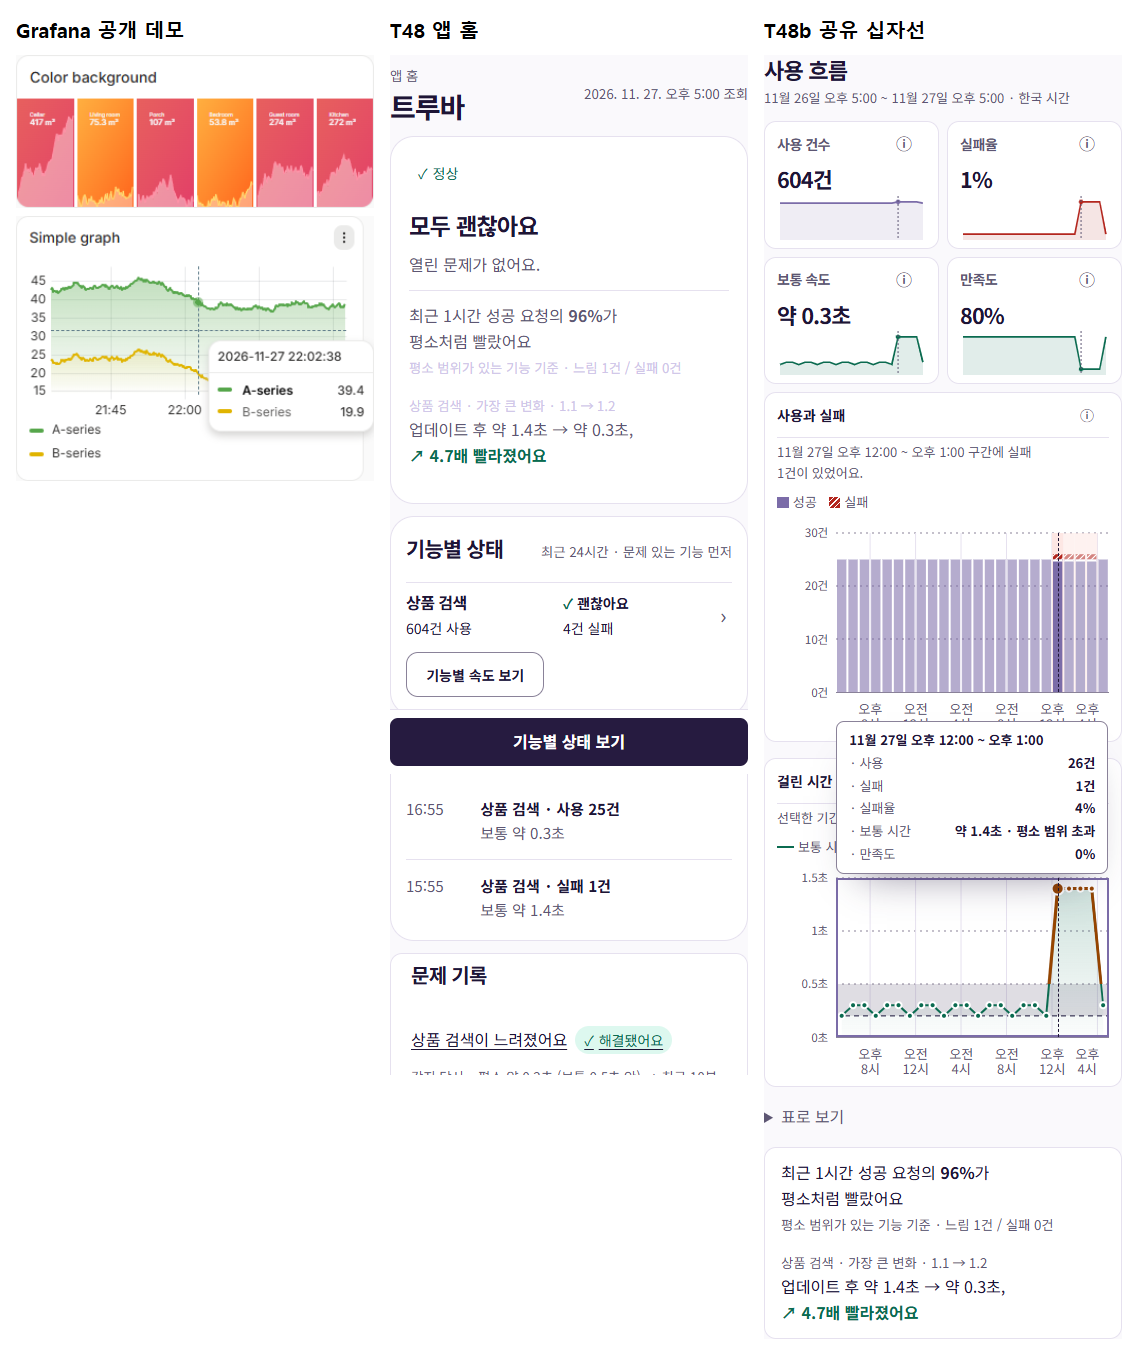
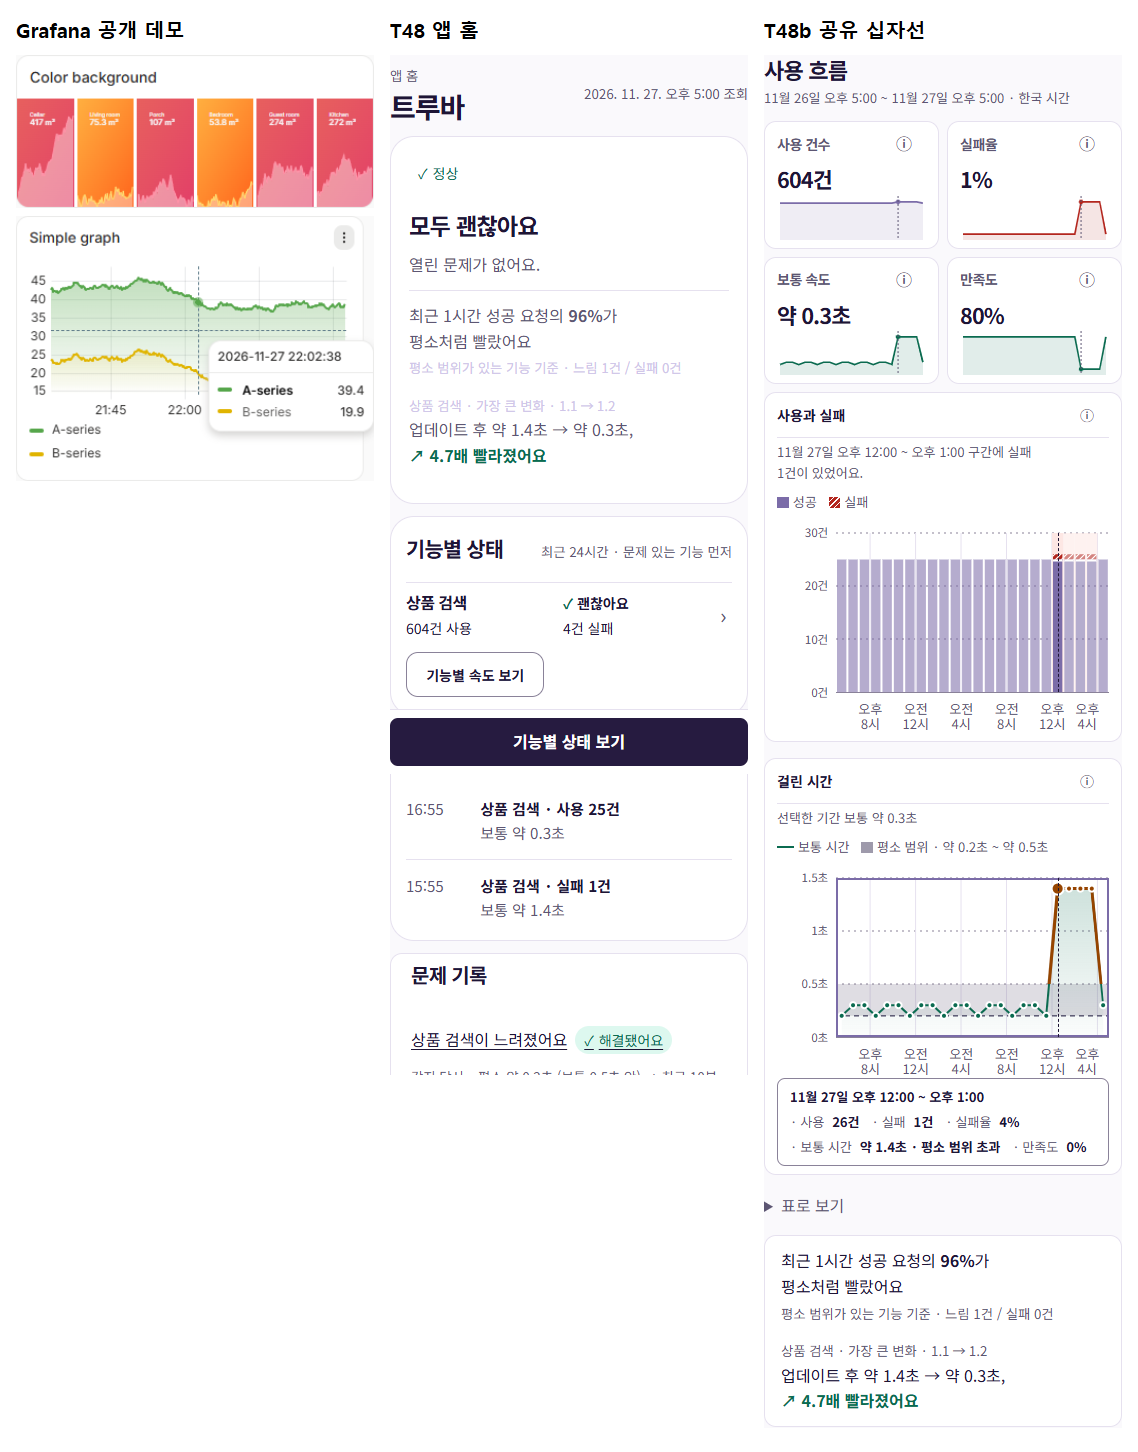
fix: 이전 버전 30일 비교와 창별 중복 조회 및 모바일 툴팁 수정

diff --git a/web/src/refresh.test.tsx b/web/src/refresh.test.tsx
@@ -1,21 +1,52 @@
-import { act, cleanup, fireEvent, render, screen } from "@testing-library/react";
+import { act, cleanup, fireEvent, render, screen, within } from "@testing-library/react";
 import { MemoryRouter, Route, Routes } from "react-router-dom";
-import { afterEach, expect, it, vi } from "vitest";
+import { afterEach, beforeEach, expect, it, vi } from "vitest";
 import { MonitorRoute } from "./Monitor";
 import type { Gateway } from "./data";
 import type { Monitor } from "./monitor-data";
 
 const snapshot: Monitor = { name:"내 앱", features:[], incidents:[], stats:[], versions:[], samples:[], errorKinds:[], now:0 };
+beforeEach(() => { vi.spyOn(document,"hasFocus").mockReturnValue(true); });
 afterEach(() => { cleanup(); vi.restoreAllMocks(); vi.useRealTimers(); });
+function mount(monitor: Gateway["monitor"]) {
+  return render(<MemoryRouter initialEntries={["/apps/demo"]}>
+    <Routes><Route path="/apps/:id" element={<MonitorRoute api={{monitor} as unknown as Gateway} />} /></Routes>
+  </MemoryRouter>);
+}
 async function open() {
   vi.useFakeTimers();
   const monitor = vi.fn<Gateway["monitor"]>().mockResolvedValue(snapshot);
-  await act(async () => { render(<MemoryRouter initialEntries={["/apps/demo"]}>
-    <Routes><Route path="/apps/:id" element={<MonitorRoute api={{monitor} as unknown as Gateway} />} /></Routes>
-  </MemoryRouter>); });
+  await act(async () => { mount(monitor); });
   return monitor;
 }
 const advance = (ms:number) => act(async () => { await vi.advanceTimersByTimeAsync(ms); });
+it("두 창에서 앱마다 한 창만 자동 조회하고 대기 창의 수동 조회와 인계를 허용한다", async () => {
+  vi.useFakeTimers();
+  const locks = new Map<string,Promise<void>>();
+  const request = (key:string, {signal}:{signal:AbortSignal}, lead:()=>Promise<void>) => {
+    const pending = (locks.get(key) ?? Promise.resolve()).then(() => { if (!signal.aborted) return lead(); });
+    locks.set(key,pending);
+    return pending;
+  };
+  const original = Object.getOwnPropertyDescriptor(navigator,"locks");
+  Object.defineProperty(navigator,"locks",{configurable:true,value:{request}});
+  try {
+    const first = vi.fn<Gateway["monitor"]>().mockResolvedValue(snapshot);
+    const second = vi.fn<Gateway["monitor"]>().mockResolvedValue(snapshot);
+    const leader = mount(first);
+    const follower = mount(second);
+    await advance(60000);
+    expect([first.mock.calls.length,second.mock.calls.length]).toEqual([2,1]);
+    await act(async () => { fireEvent.click(within(follower.container).getByRole("button",{name:"새로고침"})); });
+    expect(second).toHaveBeenCalledTimes(2);
+    await act(async () => { leader.unmount(); });
+    await advance(60000);
+    expect([first.mock.calls.length,second.mock.calls.length]).toEqual([2,3]);
+  } finally {
+    if (original) Object.defineProperty(navigator,"locks",original);
+    else Reflect.deleteProperty(navigator,"locks");
+  }
+});
 it("기본 1분, 숨긴 탭 일시 중지, 30초 및 끔을 적용한다", async () => {
   const monitor = await open();
   await advance(59999);

diff --git a/web/src/Chart.tsx b/web/src/Chart.tsx
@@ -163,7 +163,9 @@ function StatPanel({title,help,value,series,selection,points,p95}:{title:string;
       {series.map((n,i) => n !== null && (series[i-1] == null && series[i+1] == null || i === active) &&
         <circle key={i} cx={center(i,series.length)} cy={pointY(n)} r="1.5" fill="currentColor"/>)}
       {active !== undefined && <line className="spark-cursor" x1={center(active,series.length)} x2={center(active,series.length)} y1="0" y2="30" vectorEffect="non-scaling-stroke"/>}
-    </svg><CursorTarget owner={title} points={points} selection={selection} p95={p95}/></div>
+    </svg><CursorTarget owner={title} points={points} selection={selection} p95={p95}/>
+      {selection.active?.owner === title && <CursorTip index={selection.active.index} points={points} p95={p95}/>}
+    </div>
   </article>;
 }
 
@@ -212,6 +214,9 @@ function Plot({ points, labels, duration = false, baseline, p95 = null, samples 
       </div>
       <div className="flow-x">{labels.map(({ left, label }) => <span key={label}
         style={{ left: `clamp(0%, calc(${left}% - var(--tick-width) / 2), calc(100% - var(--tick-width)))` }}>{label}</span>)}</div>
+      {selection.active?.owner === title && <div className="plot-readout">
+        <CursorTip index={selection.active.index} points={points} p95={p95}/>
+      </div>}
     </div>
   </figure>;
 }
@@ -256,12 +261,16 @@ function CursorTarget({owner,points,p95,selection,crosshair=false}:{owner:string
       }}>
       {crosshair && active !== undefined && <span className="flow-selection" style={{left:percent(center(active,points.length))}}/>}
     </div>
-    {active !== undefined && selection.active?.owner === owner && <div role="tooltip" className="flow-tip"
-      style={active < points.length/2 ? {left:`min(calc(${center(active,points.length)}% + 8px), 100% - var(--tip-width))`} :
-        {right:`min(calc(${100-center(active,points.length)}% + 8px), 100% - var(--tip-width))`}}>
-      <strong>{points[active].label}</strong>{values(points[active],p95).map(([name,value]) =>
-        <span key={name}><span className="tip-label">{" · "+name+" "}</span><em>{value}</em></span>)}</div>}
   </>;
+}
+
+function CursorTip({index,points,p95}:{index:number; points:Bucket[]; p95:number|null}) {
+  const x = center(index,points.length);
+  return <div role="tooltip" className="flow-tip"
+    style={x < 50 ? {left:`min(calc(${x}% + 8px), 100% - var(--tip-width))`} :
+      {right:`min(calc(${100-x}% + 8px), 100% - var(--tip-width))`}}>
+    <strong>{points[index].label}</strong>{values(points[index],p95).map(([name,value]) =>
+      <span key={name}><span className="tip-label">{" · "+name+" "}</span><em>{value}</em></span>)}</div>;
 }
 
 export function Chart({ rows, days, now, baseline, p95 = null, samples, learnsRange = true, thresholds, aggregate }: {

diff --git a/web/src/Monitor.tsx b/web/src/Monitor.tsx
@@ -118,15 +118,44 @@ function MonitorPage({
   }, [reload]);
   useEffect(() => {
     if (issue || !interval) return;
-    let timer:number | undefined;
+    let stop: AbortController | undefined;
+    function cancel() {
+      stop?.abort();
+    }
     function schedule() {
-      window.clearInterval(timer);
-      if (document.visibilityState === "visible") timer = window.setInterval(() => void reload(),interval*1000);
+      cancel();
+      if (document.visibilityState !== "visible") return;
+      stop = new AbortController();
+      const { signal } = stop;
+      function poll(focusedOnly = false) {
+        return new Promise<void>(resolve => {
+          if (signal.aborted) { resolve(); return; }
+          const timer = window.setInterval(() => {
+            if (!focusedOnly || document.hasFocus()) void reload();
+          }, interval * 1000);
+          signal.addEventListener("abort", () => {
+            window.clearInterval(timer);
+            resolve();
+          }, { once: true });
+        });
+      }
+      if (navigator.locks) {
+        // Keep the lock between ticks. The next visible window takes over on release.
+        void navigator.locks.request("ship-and-ping:monitor:" + id, { signal }, () => poll())
+          .catch(() => { if (!signal.aborted) void poll(true); });
+      } else void poll(true);
     }
     schedule();
     document.addEventListener("visibilitychange",schedule);
-    return () => { window.clearInterval(timer); document.removeEventListener("visibilitychange",schedule); };
-  }, [interval,issue,reload]);
+    window.addEventListener("pagehide",cancel);
+    window.addEventListener("pageshow",schedule);
+    return () => {
+      cancel();
+      document.removeEventListener("visibilitychange",schedule);
+      window.removeEventListener("pagehide",cancel);
+      window.removeEventListener("pageshow",schedule);
+    };
+  }, [id,interval,issue,reload]);
   const loaded = Boolean(data);
   useEffect(() => {
     if (!loaded) return;

diff --git a/web/src/styles/dashboard.css b/web/src/styles/dashboard.css
@@ -208,7 +208,9 @@
 .flow-marks g, .flow-marks circle { transition:opacity var(--sp-dur-press),r var(--sp-dur-press); }
 .flow-hit .flow-selection { outline:0; width:0; border-left:1px dashed var(--sp-ink); transition:left 85ms var(--sp-ease-out); }
 .spark-cursor { stroke:var(--sp-ink-2); stroke-dasharray:2 2; }
-.flow-plot .flow-tip, .spark-plot .flow-tip { --tip-width:min(17rem,100%); width:var(--tip-width); box-sizing:border-box;
+.metrics-board .flow-plot, .plot-readout { grid-area:1 / 2; }
+.plot-readout { position:relative; pointer-events:none; }
+.plot-readout .flow-tip, .spark-plot .flow-tip { --tip-width:min(17rem,100%); width:var(--tip-width); box-sizing:border-box;
   display:grid; gap:2px; top:var(--sp-space-1); bottom:auto; inset-inline:auto;
   padding:var(--sp-space-2) var(--sp-space-3); border:1px solid var(--sp-line-strong); color:var(--sp-ink);
   background:var(--sp-surface); font-size:var(--sp-text-xs); box-shadow:var(--sp-hero-shadow); }
@@ -225,7 +227,13 @@
   .refresh-button > span { display:none; }
   .metrics-board .stat-grid { grid-auto-flow:row; grid-template-columns:repeat(2,minmax(0,1fr)); }
   .metrics-board .flow-plots { gap:var(--sp-space-4); }
-  .flow-plot .flow-tip { top:auto; bottom:calc(100% + var(--sp-space-1)); }
+  .stat-panel header { position:relative; }
+  .stat-panel .panel-help { position:static; }
+  .stat-panel .panel-help > span { inset-inline:0; width:auto; }
+  .plot-readout { grid-area:3 / 1 / auto / -1; }
+  .plot-readout .flow-tip { position:static; width:100%; box-shadow:none; display:flex; flex-wrap:wrap;
+    gap:var(--sp-space-1) var(--sp-space-3); }
+  .plot-readout .flow-tip strong { flex-basis:100%; }
   .metrics-board .stat-panel, .metrics-board .flow-figure { padding-inline:var(--sp-space-3); }
 }
 @media (prefers-reduced-motion:reduce) {

diff --git a/docs/위임로그/김태형.md b/docs/위임로그/김태형.md
@@ -485,3 +485,9 @@
 | 목표 | 프롬프트 | 결과 | 검증 | 수정 | 배운 점 |
 |---|---|---|---|---|---|
 | 30분 대체 창의 첫 버킷을 포함하고 첫 판정의 메일 발송 단위를 확인한다. | [T46-fix3 지시문](../../prompts/tasks/T46-fix3.md) | 12:13 판정에 11:44 성공 1건과 12:12 성공 4건을 합쳐 느림으로 연다. | [기존 조건을 사용한 변형 검사](https://github.com/ship-and-ping/ship-and-ping-backend/actions/runs/46011016663)와 같은 수신자에게 열린 두 기능의 DB 선점·Worker 발송 요청을 검사한다. | 버킷 하한에 5분을 더하는 조건을 10분 창으로 한정했다. | 발송 한도가 남아 있으면 기능별로 즉시 메일을 보내고, 한도 초과로 미룬 메일은 다음 UTC 날짜에 수신자별로 묶는다. |
+
+### T48 검수 후속 수정 (2026-11-27)
+
+| 목표 | 프롬프트 | 결과 | 검증 | 수정 | 배운 점 |
+|---|---|---|---|---|---|
+| 8일 전 버전과 비교하고 여러 창의 중복 조회 및 모바일 툴팁 가림을 고친다. | [T48-fix 지시문](../../prompts/tasks/T48-fix.md) | 30일 성공 기록으로 비교한다. 같은 앱에서 한 창만 주기 조회하고 390px의 도움말과 구간 요약을 화면 안에 배치했다. | 웹 테스트 2,871개, Edge 창 2개의 자동·수동 조회 및 인계, [390px 캡처와 기하 검사](../design/qa/demo-insights/README.md). DB 회귀 검사는 8일 전 성공 10건과 31일 전 표본 제외, 7일 변형을 대조한다. | 잠금 이름을 창별로 바꾸면 두 창 모두 자동 조회해 회귀 검사가 실패했다. 앱별 이름으로 복원했다. | 5분 기록은 7일 뒤 시간 단위로 합쳐지므로 30일간 성공만 비교하려면 혼합 버킷의 성공 분포도 함께 옮겨야 한다. |

diff --git a/db.md b/db.md
@@ -76,6 +76,8 @@ date: 2026-11-24
 ### stats_1h — 시간별 요약 (기록 후 30일까지)
 stats_5m과 같은 열, bucket = 1시간. 매일 Cron이 7일 지난 5분 요약을 앱·기능·버전·시간별로 합친다. 옮긴 행의 판정 입력(`private.evaluation_buckets`)은 외래 키로 함께 삭제한다. 평소 속도 계산과 준비 건수는 경계 시각을 포함한 최근 7일의 성공 기록을 쓴다.
 
+버전별 속도 비교는 최근 30일 안에 남아 있는 현재·직전 버전의 성공 시간을 쓴다. 자동 기능에서 실패나 클라이언트 오류가 섞인 시간은 `success_hist`에 측정된 성공 분포를 따로 합친다. 모두 성공한 시간은 기존 `hist`를 사용한다. 성공 분포를 보존하기 전에 합쳐진 혼합 시간은 비교 표본에서 제외한다.
+
 5분·시간·하루 요약에서 16칸과 30칸을 합산할 때 옛 (3초, 5초]와 (5초, 7.5초]의 건수는 각각 31·32번째 칸에 담는다. 두 건수가 모두 0이면 30칸으로 저장한다. 느림 기준을 변경하면 구간 하한이 새 기준 이상인 건수만 초과로 센다. 예를 들어 3.3초 기준에서 옛 (3초, 5초]의 건수는 제외하고 새 (3.3초, 3.6초]의 건수는 포함한다. `private.sum_hist(integer[])`의 전이 함수 `private.add_hist`에는 빈 search_path가 설정되어 있다.
 
 Worker의 수집 RPC는 항상 16칸 `hist`를 전송한다. 세분한 구간에 관측값이 있으면 30칸 `hist_30`도 보낸다. 구버전 DB는 `hist`를 사용하고 마이그레이션을 마친 DB는 `hist_30`이 있으면 해당 배열을 사용한다.

diff --git a/prompts/tasks/T48-fix.md b/prompts/tasks/T48-fix.md
@@ -1,0 +1,14 @@
+# 쉽앤핑 T48-fix — PR #45 검수 지적
+
+너는 Orca 작업 에이전트(Codex)다. 기존 브랜치 `feat/T48-demo-insights`(PR #45)에 이어서 커밋. `fix/T46-p95-baseline` 최신(105722e 이후) 병합 허용. main 합치기 금지. Windows — 웹 로컬, Rust·DB는 CI.
+명령은 경로를 그대로 하나씩(셸 변수·명령 치환·인터프리터 한 줄 실행 금지), 파일은 Read·Write(편집) 도구로.
+
+## 고칠 것 (다른 Codex 세션 검수)
+1. [중간] `supabase/migrations/20261127004800_demo_insights.sql:27` — 직전 버전 성공 10건이 8일 전이고 현재 버전이 오늘이면 보관 기간(30일) 안인데 비교가 사라짐. 조회 범위를 보관 기간 전체(직전 버전의 마지막 기록 기준)로. DB 테스트.
+2. [중간] `web/src/Monitor.tsx:124` — 같은 앱을 띄운 보이는 창 2개에서 자동 새로고침이 각자 조회(1분에 12건). BroadcastChannel 등으로 창 간 하나만 조회하고 결과 공유(또는 리더 창만 조회), 수동 새로고침은 즉시. 테스트.
+3. [중간] `web/src/styles/dashboard.css:198` — 390px 첫 Stat 도움말이 왼쪽 62px 잘림 → 화면 안으로 위치 보정.
+4. [낮음] `dashboard.css:228` — 390px 걸린 시간 툴팁이 범례와 위 패널 시간축을 가림 → 휴대폰에서는 툴팁을 그래프 위 고정 줄(값 요약)로 표시하거나 가리지 않는 위치로.
+변형 검사, 390 캡처 갱신.
+
+## 마무리
+비밀값 검사 후 push, `gh pr checks 45` 통과, PR 본문 갱신. 머지 금지. **끝나면 반드시 worker_done**.
